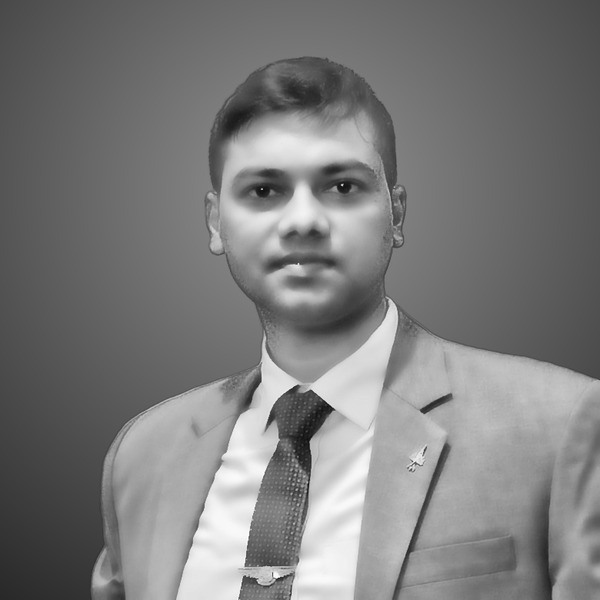
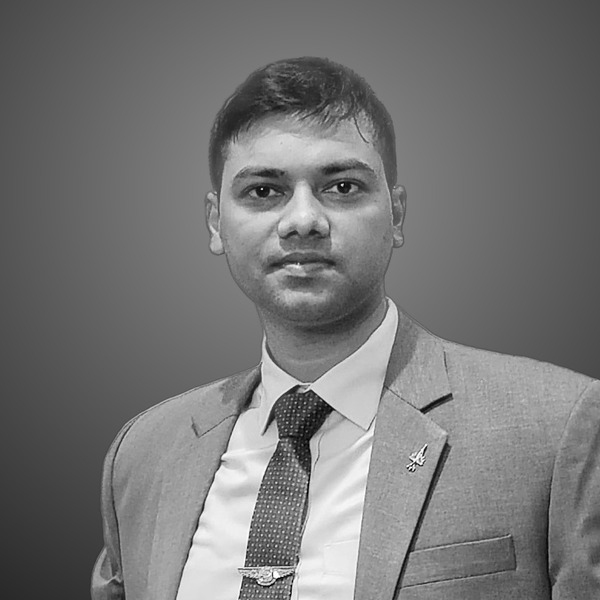
Natural black-and-white portrait and Flickr photo grid
Photo: no skin smoothing, light brightening only.
Gallery: latest 12 public Flickr photos in a grid, slideshow as fallback.

Claude-Session: https://claude.ai/code/session_019jMkLRKNUUkXUcJ27jR6mV

diff --git a/app.py b/app.py
@@ -1,4 +1,6 @@
 import base64
+import json
+import urllib.request
 from datetime import date
 from html import escape
 from pathlib import Path
@@ -13,6 +15,8 @@ from profile_data import (
     EDUCATION,
     EXPERIENCE,
     FLICKR_EMBED,
+    FLICKR_PHOTO_COUNT,
+    FLICKR_USER_ID,
     HOBBIES,
     LANGUAGES,
     PROFILE,
@@ -54,6 +58,28 @@ def find_file(path_str):
 def image_data_uri(path):
     mime = "image/png" if path.suffix == ".png" else "image/jpeg"
     return f"data:{mime};base64,{base64.b64encode(path.read_bytes()).decode()}"
+
+
+@st.cache_data(ttl=3600, show_spinner=False)
+def flickr_photos(user_id, count):
+    """Latest public photos from Flickr's public feed (no API key needed)."""
+    url = (
+        "https://www.flickr.com/services/feeds/photos_public.gne"
+        f"?id={user_id}&format=json&nojsoncallback=1"
+    )
+    req = urllib.request.Request(url, headers={"User-Agent": "Mozilla/5.0 (portfolio site)"})
+    with urllib.request.urlopen(req, timeout=10) as resp:
+        raw = resp.read().decode("utf-8").replace("\\'", "'")
+    items = json.loads(raw).get("items", [])[:count]
+    return [
+        {
+            "title": item.get("title") or "Untitled",
+            "link": item["link"],
+            # _m is the small thumbnail; _z is 640px, sharp enough for the grid
+            "src": item["media"]["m"].replace("_m.jpg", "_z.jpg"),
+        }
+        for item in items
+    ]
 
 
 def date_range(start, end):
@@ -259,6 +285,16 @@ html(
       .mails a.mail { color: #fff !important; text-decoration: none !important; font-size: 0.98rem; }
       .mails a.mail:hover { color: var(--gold) !important; }
       iframe { border-radius: 16px; border: 1px solid var(--line) !important; }
+      .photo-grid { display: grid; grid-template-columns: repeat(4, 1fr); gap: 0.8rem; }
+      .photo { position: relative; display: block; aspect-ratio: 1; overflow: hidden; border-radius: 14px; background: var(--line); }
+      .photo img { width: 100%; height: 100%; object-fit: cover; transition: transform .4s ease; display: block; }
+      .photo:hover img { transform: scale(1.06); }
+      .photo span {
+        position: absolute; left: 0; right: 0; bottom: 0; padding: 1.6rem 0.8rem 0.6rem;
+        background: linear-gradient(transparent, rgba(11,29,58,0.85)); color: #fff; font-size: 0.78rem;
+        opacity: 0; transition: opacity .3s ease; white-space: nowrap; overflow: hidden; text-overflow: ellipsis;
+      }
+      .photo:hover span { opacity: 1; }
       .gallery-link { text-align: center; margin-top: 1rem; }
       .hobbies { display: flex; flex-wrap: wrap; gap: 1rem; }
       .hobby { flex: 1 1 200px; align-self: flex-start; text-align: center; padding: 1rem; border-radius: 14px; background: var(--paper); font-weight: 500; color: var(--navy); border: 1px solid transparent; transition: border-color .2s ease, background .2s ease; }
@@ -281,6 +317,7 @@ html(
         .hero img { width: 150px; height: 150px; }
         .stats { grid-template-columns: repeat(2, 1fr); }
         .grid { grid-template-columns: 1fr; }
+        .photo-grid { grid-template-columns: repeat(2, 1fr); }
       }
     </style>
     """
@@ -483,7 +520,21 @@ with tabs["More About Me"]:
 # ---------- Gallery ----------
 with tabs["Gallery"]:
     section_title("gallery", "Photography", "Photo Gallery")
-    if FLICKR_EMBED:
+    photos = []
+    if FLICKR_USER_ID:
+        try:
+            photos = flickr_photos(FLICKR_USER_ID, FLICKR_PHOTO_COUNT)
+        except Exception:
+            photos = []
+    if photos:
+        tiles = "".join(
+            f'<a class="photo" href="{escape(ph["link"])}" target="_blank">'
+            f'<img src="{escape(ph["src"])}" alt="{escape(ph["title"])}" loading="lazy">'
+            f'<span>{escape(ph["title"])}</span></a>'
+            for ph in photos
+        )
+        html(f'<div class="photo-grid">{tiles}</div>')
+    elif FLICKR_EMBED:
         if hasattr(st, "iframe"):
             st.iframe(FLICKR_EMBED, height=520)
         else:

diff --git a/profile_data.py b/profile_data.py
@@ -190,5 +190,8 @@ HOBBIES = {
     "Badminton": {"icon": "🏸", "achievement": "Professional player"},
 }
 
-# Flickr's official slideshow of the photostream (user id 78237795@N08). Set to "" to hide.
+# Gallery tab: latest public photos from this Flickr user id (set to "" to hide the grid)
+FLICKR_USER_ID = "78237795@N08"
+FLICKR_PHOTO_COUNT = 12
+# Fallback slideshow if the photo feed can't be loaded (set to "" to hide)
 FLICKR_EMBED = "https://embedr.flickr.com/photostreams/78237795@N08"
